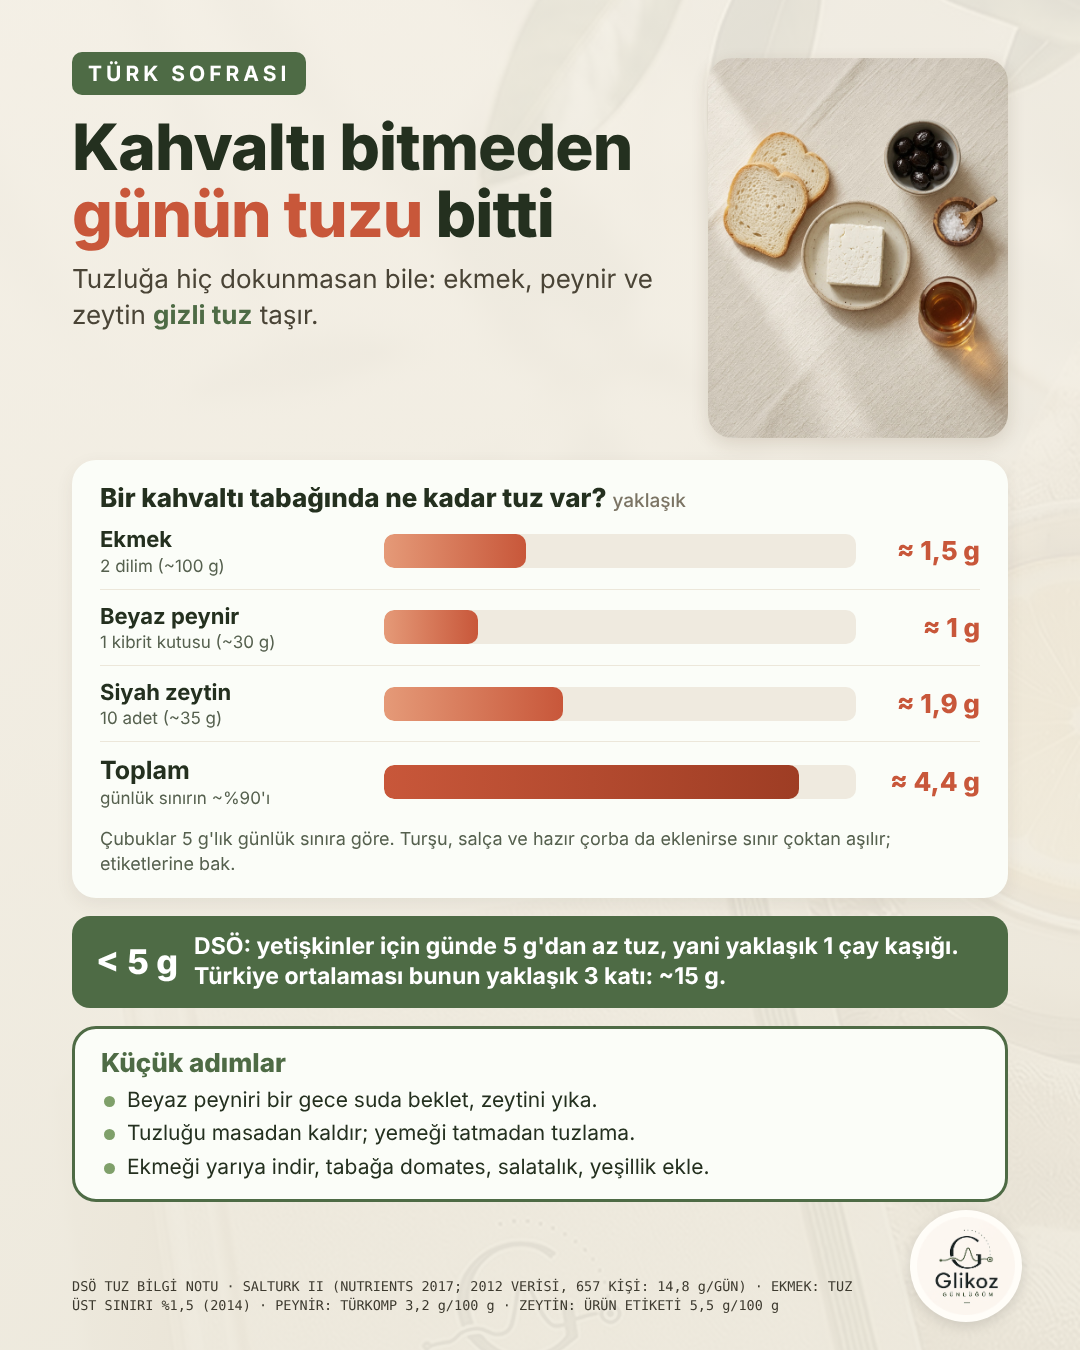
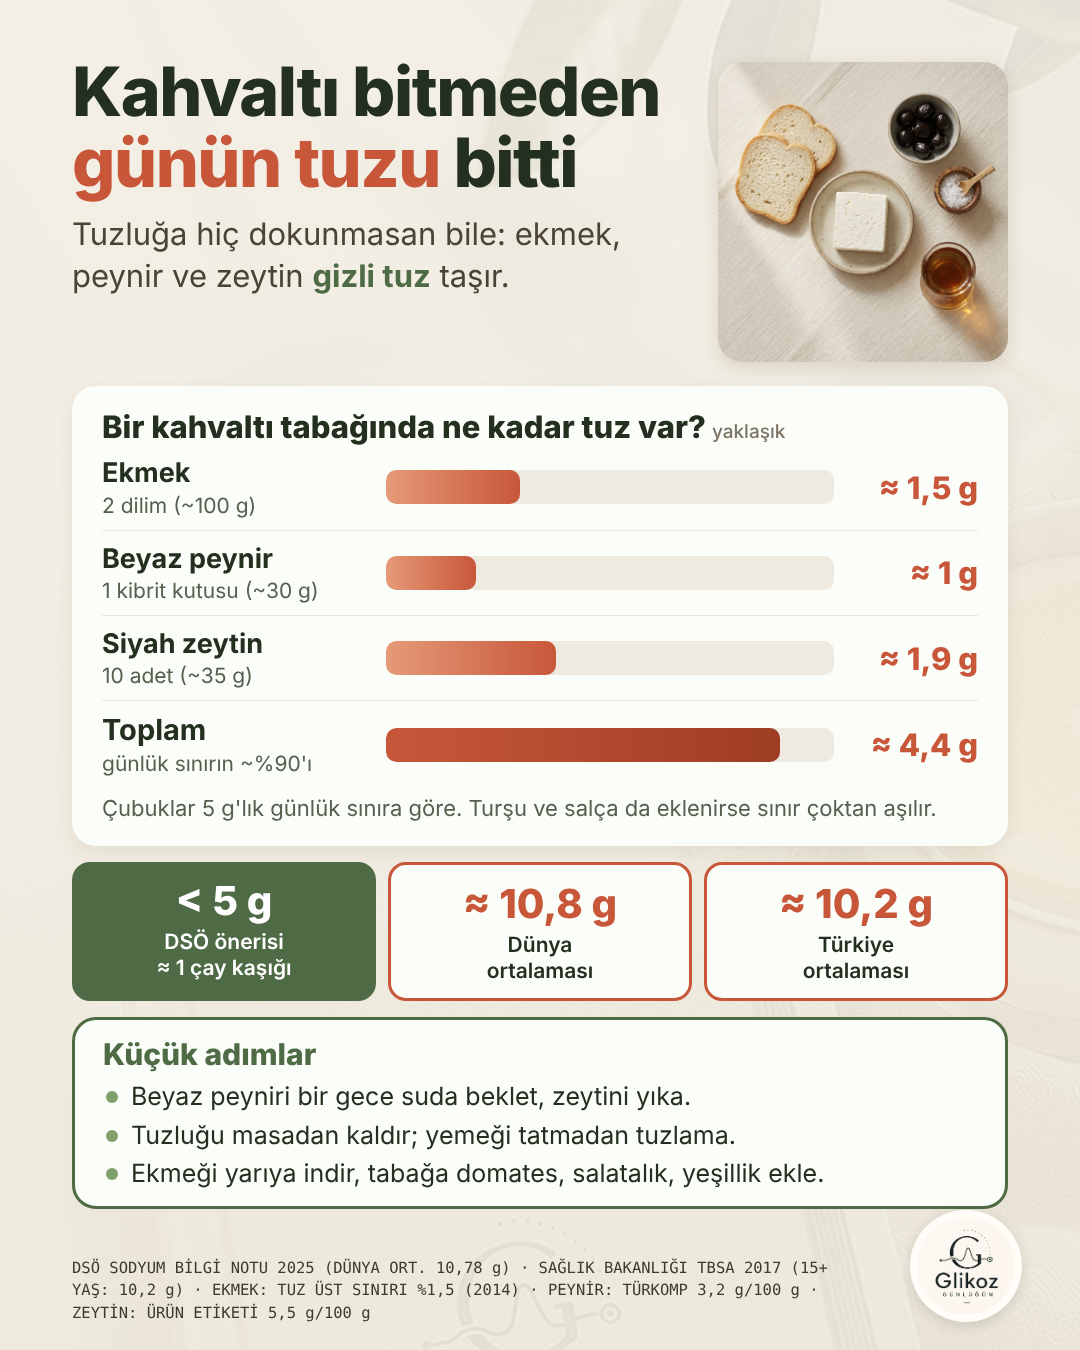
Tuz infografiği: büyük yazılar, dünya/Türkiye ortalaması, güncel TBSA rakamı
Claude-Session: https://claude.ai/code/session_01PodALZMEvychGr3nMFJPBx

diff --git a/infografik/gizli-tuz/tuz.html b/infografik/gizli-tuz/tuz.html
@@ -1,6 +1,6 @@
 <!DOCTYPE html><html lang="tr"><head><meta charset="utf-8"><link rel="stylesheet" href="style.css"></head><body>
 <div class="veil"></div><div class="wrap">
-<div class="hero"><header><div class="tag">TÜRK SOFRASI</div>
+<div class="hero"><header>
 <h1>Kahvaltı bitmeden<br><em>günün tuzu</em> bitti</h1>
 <p class="sub">Tuzluğa hiç dokunmasan bile: ekmek, peynir ve zeytin <b>gizli tuz</b> taşır.</p></header>
 <div class="pic"><img src="foto.jpg" style="object-position:center 45%"></div></div>
@@ -9,13 +9,13 @@
  <div class="brow"><div class="l">Beyaz peynir<span>1 kibrit kutusu (~30 g)</span></div><div class="track"><div class="fill" style="width:20%"></div></div><div class="v r">≈ 1 g</div></div>
  <div class="brow"><div class="l">Siyah zeytin<span>10 adet (~35 g)</span></div><div class="track"><div class="fill" style="width:38%"></div></div><div class="v r">≈ 1,9 g</div></div>
  <div class="brow tot" style="border-bottom:0"><div class="l">Toplam<span>günlük sınırın ~%90'ı</span></div><div class="track"><div class="fill t" style="width:88%"></div></div><div class="v r">≈ 4,4 g</div></div>
- <p style="font:400 18px/1.35 Inter;color:var(--mute);margin-top:6px">Çubuklar 5 g'lık günlük sınıra göre. Turşu, salça ve hazır çorba da eklenirse sınır çoktan aşılır; etiketlerine bak.</p>
+ <p class="cnote">Çubuklar 5 g'lık günlük sınıra göre. Turşu ve salça da eklenirse sınır çoktan aşılır.</p>
 </div>
-<div class="limit"><b>&lt; 5 g</b><span>DSÖ: yetişkinler için günde 5 g'dan az tuz, yani yaklaşık 1 çay kaşığı. Türkiye ortalaması bunun yaklaşık 3 katı: ~15 g.</span></div>
+<div class="cmp"><div class="ok"><b>&lt; 5 g</b>DSÖ önerisi<br>≈ 1 çay kaşığı</div><div class="bad"><b>≈ 10,8 g</b>Dünya<br>ortalaması</div><div class="bad"><b>≈ 10,2 g</b>Türkiye<br>ortalaması</div></div>
 <div class="tips"><h2>Küçük adımlar</h2><ul>
 <li>Beyaz peyniri bir gece suda beklet, zeytini yıka.</li>
 <li>Tuzluğu masadan kaldır; yemeği tatmadan tuzlama.</li>
 <li>Ekmeği yarıya indir, tabağa domates, salatalık, yeşillik ekle.</li></ul></div>
 </div>
-<div class="src">DSÖ TUZ BİLGİ NOTU · SALTURK II (NUTRIENTS 2017; 2012 VERİSİ, 657 KİŞİ: 14,8 g/GÜN) · EKMEK: TUZ ÜST SINIRI %1,5 (2014) · PEYNİR: TÜRKOMP 3,2 g/100 g · ZEYTİN: ÜRÜN ETİKETİ 5,5 g/100 g</div>
+<div class="src">DSÖ SODYUM BİLGİ NOTU 2025 (DÜNYA ORT. 10,78 g) · SAĞLIK BAKANLIĞI TBSA 2017 (15+ YAŞ: 10,2 g) · EKMEK: TUZ ÜST SINIRI %1,5 (2014) · PEYNİR: TÜRKOMP 3,2 g/100 g · ZEYTİN: ÜRÜN ETİKETİ 5,5 g/100 g</div>
 <div class="logo"><img src="../../engine/assets/logo.png"></div></body></html>

diff --git a/infografik/gizli-tuz/style.css b/infografik/gizli-tuz/style.css
@@ -43,3 +43,28 @@ h1 em{font-style:normal;color:var(--tile)}
 .fill{height:100%;border-radius:10px;background:linear-gradient(90deg,#E59A78,#C8573A)}
 .fill.t{background:linear-gradient(90deg,#C8573A,#9E3D24)}
 .brow.tot .l{font-size:25px}
+/* 2026-11-22 revizyon: daha büyük yazılar */
+.hero{padding-top:56px;grid-template-columns:1fr 290px}
+.hero .pic{height:330px}
+h1{font-size:72px;margin-top:0}
+.sub{font-size:31px;line-height:1.36}
+.card{padding:22px 30px;margin-top:24px}
+.card h2{font-size:31px}
+.brow{grid-template-columns:270px 1fr 130px;padding:12px 0}
+.brow .l{font-size:27px}.brow .l span{font-size:21px}
+.brow.tot .l{font-size:29px}
+.v{font-size:31px}
+.cnote{font:400 22px/1.35 Inter;color:var(--mute);margin-top:6px}
+.cmp{margin:16px 72px 0;display:grid;grid-template-columns:repeat(3,1fr);gap:12px}
+.cmp div{border-radius:18px;padding:14px 10px;text-align:center;font:600 21px/1.25 Inter}
+.cmp b{display:block;font:800 40px Inter;margin-bottom:4px}
+.cmp .ok{background:var(--olive);color:#fff}
+.cmp .bad{background:var(--card);color:var(--ink);border:3px solid var(--tile)}
+.cmp .bad b{color:var(--tile)}
+.tips{padding:16px 28px;margin-top:16px}
+.tips h2{font-size:30px}
+.tips li{font-size:25px;line-height:1.3;padding-left:28px}
+.tips li:before{top:11px;width:12px;height:12px}
+.src{font-size:15.5px;bottom:26px;max-width:800px}
+h1{font-size:68px;letter-spacing:-1.5px}
+.hero .pic{height:300px}

diff --git a/SESSIONS.md b/SESSIONS.md
@@ -43,3 +43,4 @@
 - 2026-11-22: 018 mercimek: kaynak satırları yeniden alta alındı; srcDark açık zeminde küçük krem kutu içinde.
 - 2026-11-22: 021 gürültü: 'kalp-damar etkileri' yerine 'kalp hastalığı riski' (van Kempen 2018, IHD RR 1,08/10 dB).
 - 2026-11-22: 021 gürültü: 'Önerimiz: …' yerine 'Bugün kendine 10 dakika sessizlik molası ver.'
+- 2026-11-22: gizli-tuz infografiği: etiket kaldırıldı, yazılar büyütüldü, DSÖ/dünya/Türkiye karşılaştırması (10,8 g / 10,2 g TBSA 2017); SALTURK 15 g yerine güncel resmi rakam.
